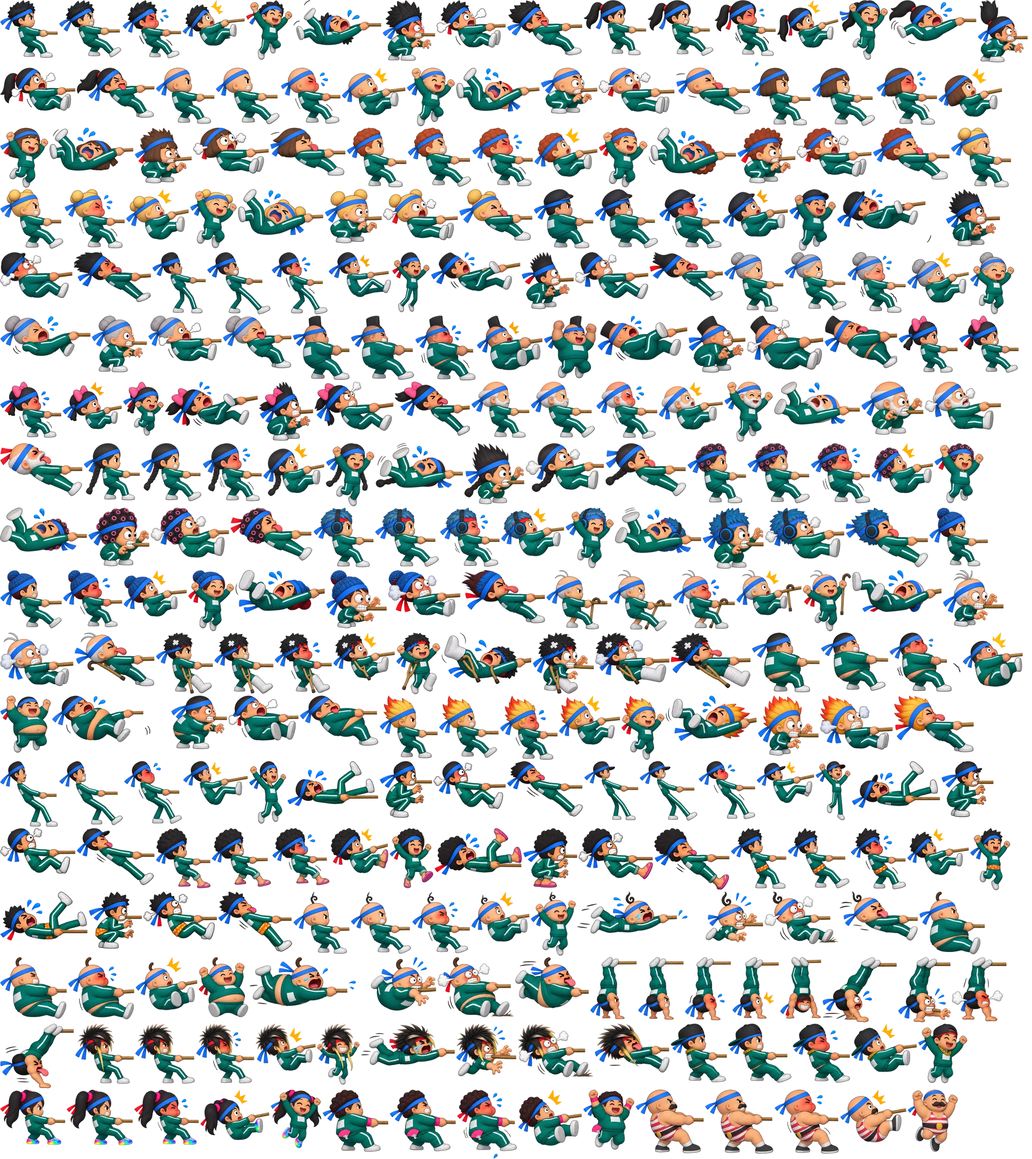
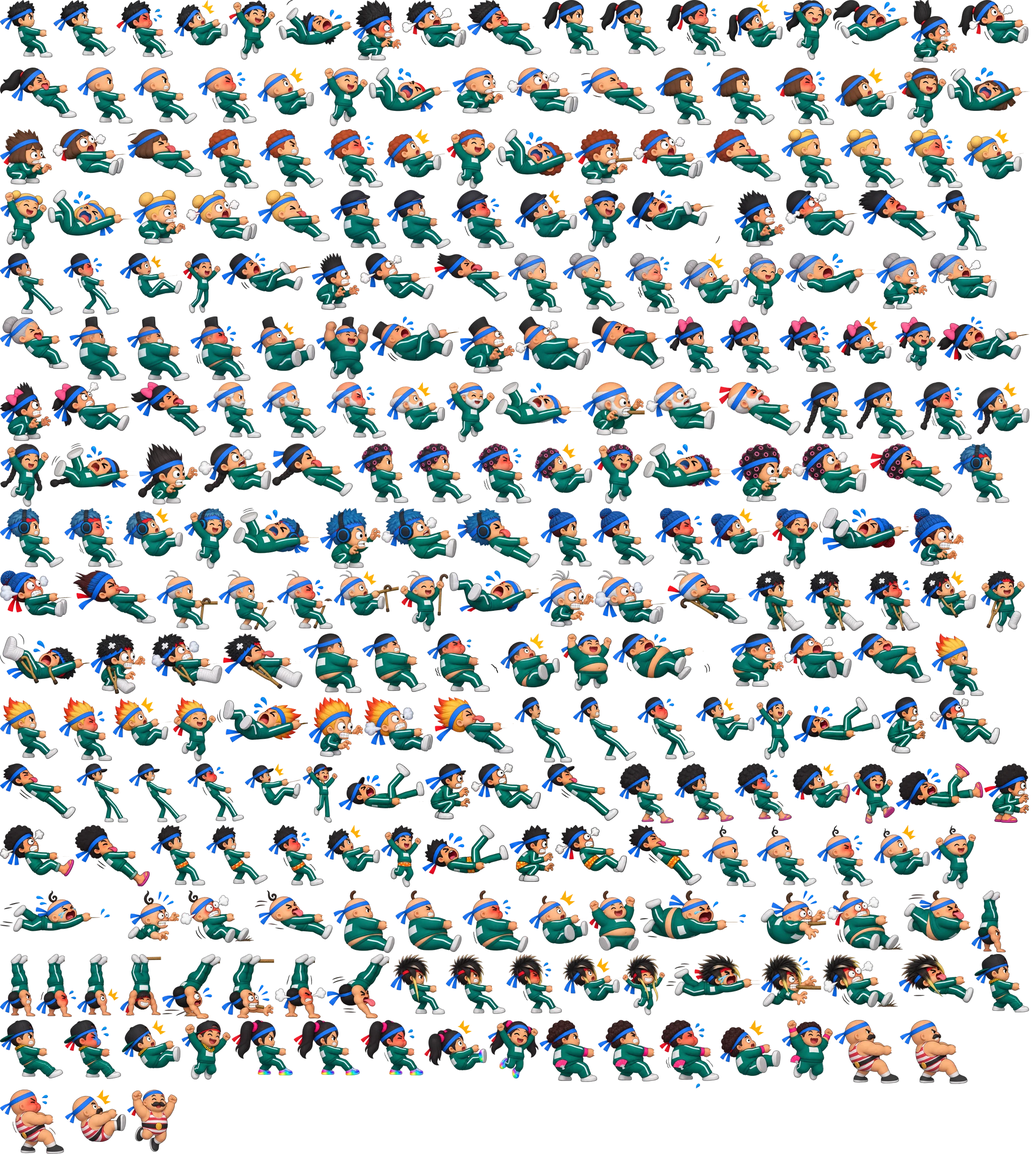
feat(keoco): bỏ đoạn dây vẽ sẵn trong tay nhân vật (236/240 khung), sợi dây lớn nối thẳng vào chỗ tay nắm

diff --git a/public/js/keoco.js b/public/js/keoco.js
@@ -26,7 +26,7 @@
   const g = canvas.getContext('2d');
   const FONT = "'Be Vietnam Pro', system-ui, sans-serif";
   const ASSET = '/assets/keoco/';
-  const AV = 2;
+  const AV = 3;
 
   // Sân (đo trên bg.webp): mặt tháp y 745–880, mép trong tháp trái x≈442, tháp phải x≈634 (ở độ cao dây)
   const ROPE_Y = 792;
